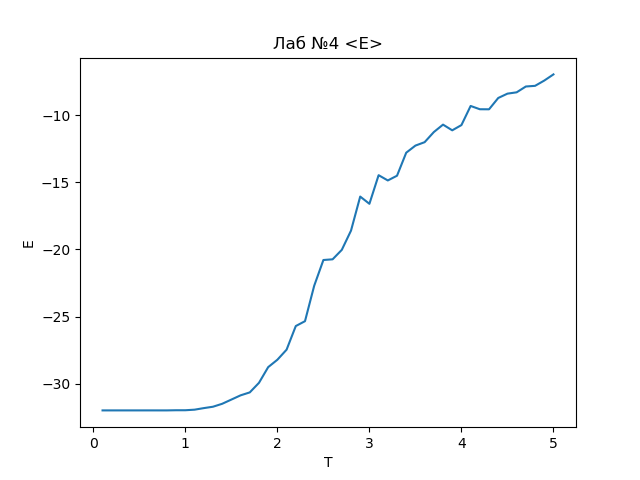
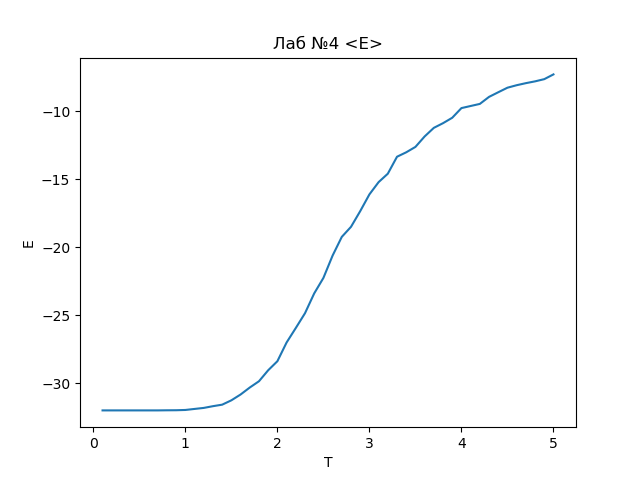
fix 4 lab model

diff --git a/model/lab5/lab5.py b/model/lab5/lab5.py
@@ -10,7 +10,7 @@ import copy
 
 MATRIX_LENGTH = 4  # L - количество спинов вдоль одной сторо-ны квадрата
 J = 1  # J - тип взаимодействия, определяющий основные характеристики системы.
-SWAP_COUNT = 100000 * MATRIX_LENGTH * MATRIX_LENGTH  # m - выбор спина m раз
+SWAP_COUNT = 100 * MATRIX_LENGTH * MATRIX_LENGTH  # m - выбор спина m раз
 
 
 def save(name='', fmt='png'):
@@ -129,13 +129,15 @@ def find_min_conf(matrix_length=MATRIX_LENGTH):
     print(f"Min brut: {min_e}")
 
 
-def z4(matrix, T_min, T_max, step):
+def z5(matrix):
     e = calculate_energy(matrix)
 
-    t_e = {}
-    t_e2 = {}
-    t = T_max
-    while t > T_min:
+    e_var = [x*2 for x in range(-MATRIX_LENGTH * MATRIX_LENGTH, (MATRIX_LENGTH * MATRIX_LENGTH) + 1)]
+    g_e = {x: 1 for x in e_var}
+    h_e = {x: 0 for x in e_var}
+    f = 2.7182818284
+
+    while True:
         avr_e = []
         avr_e2 = []
         for i in range(0, SWAP_COUNT):
@@ -147,56 +149,49 @@ def z4(matrix, T_min, T_max, step):
 
             e = calculate_energy_fast(old_e, width, height, matrix)
 
-            if e - old_e > 0:
-                p = min([1, math.exp(-(e - old_e) / t)])
+            if g_e[e] < g_e[old_e]:
+                g_e[e] = g_e[e] * f
+                h_e[e] = h_e[e] + 1
+            else:
+                p = g_e[old_e]/g_e[e]
                 p1 = random.random()
                 if p1 > p:
                     matrix[width][height] = -matrix[width][height]
                     e = old_e
+                    g_e[old_e] = g_e[old_e] * f
+                    h_e[old_e] = h_e[old_e] + 1
+                else:
+                    g_e[e] = g_e[e] * f
+                    h_e[e] = h_e[e] + 1
+
+            # if e - old_e > 0:
+            #     p = min([1, math.exp(-(e - old_e) / t)])
+            #     p1 = random.random()
+            #     if p1 > p:
+            #         matrix[width][height] = -matrix[width][height]
+            #         e = old_e
 
             avr_e.append(e)
             avr_e2.append(e ** 2)
-        t_e[t] = statistics.mean(avr_e)
-        t_e2[t] = statistics.mean(avr_e2)
-        t -= step
 
-    # e_average = statistics.mean(avr_e)
-    # e_average2 = statistics.mean(avr_e2)
-    print(f"Min metro: {e}")
-    # print(f"Avg metro: {e_average}")
-    # print(f"Avg2 metro: {e_average2}")
-    return t_e, t_e2
+        h_avg = statistics.mean(h_e)
+        is_h_plane = True
+        for h in h_e:
+            if h > (h_avg * 0.05):
+                is_h_plane = False
+                break
+
+        if is_h_plane:
+            f = f ** 0.5
+            if f < 1.000000001:
+                break
+            else:
+                h_e = {x: 0 for x in e_var}
+
+    print(f"Min land: {e}")
 
 
 start_time = time.time()
 matrix_S = init_matrix()
-T, T2 = z4(matrix_S, 0.1, 5, 0.1)
+z5(matrix_S)
 print(f"--- {(time.time() - start_time)} seconds ---")
-
-fig1 = plt.figure()
-plt.title(f'Лаб №4 <E>')
-plt.ylabel('E')
-plt.xlabel('T')
-plt.plot(list(T.keys()), list(T.values()))
-save(f"lab2-1", fmt='png')
-plt.show()
-
-fig2 = plt.figure()
-plt.title(f'Лаб №4 <E2>')
-plt.ylabel('E')
-plt.xlabel('T')
-plt.plot(list(T2.keys()), list(T2.values()))
-save(f"lab2-2", fmt='png')
-plt.show()
-
-c_t = {}
-for temp in T:
-    c_t[temp] = (T2[temp] - (T[temp] ** 2))/((MATRIX_LENGTH * MATRIX_LENGTH) * (temp ** 2))
-
-fig3 = plt.figure()
-plt.title(f'Лаб №4 C')
-plt.ylabel('C')
-plt.xlabel('T')
-plt.plot(list(c_t.keys()), list(c_t.values()))
-save(f"lab2-3", fmt='png')
-plt.show()

diff --git a/model/lab5/README.md b/model/lab5/README.md
@@ -1,0 +1,3 @@
+## **Лабораторная работа 5:**
+
+http://cc.dvfu.ru/ru/%D0%B0%D0%BB%D0%B3%D0%BE%D1%80%D0%B8%D1%82%D0%BC-%D0%B2%D0%B0%D0%BD%D0%B3%D0%B0-%D0%BB%D0%B0%D0%BD%D0%B4%D0%B0%D1%83/
